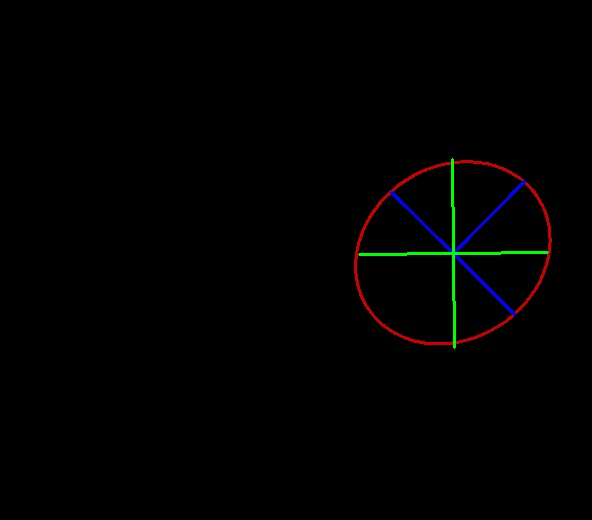
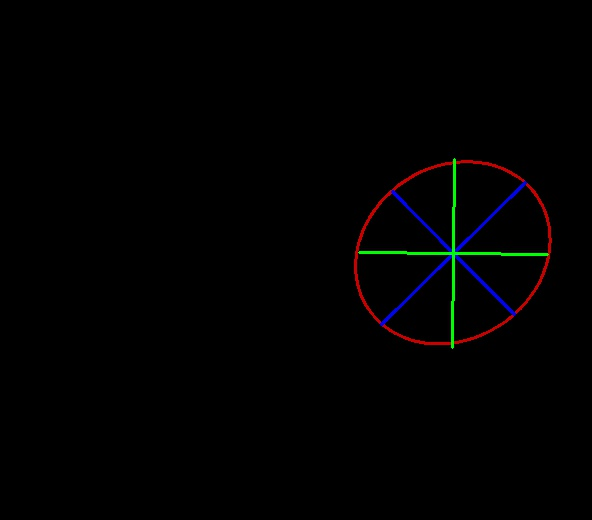
réglages bug ellipse #PourTom

diff --git a/python/ovale.py b/python/ovale.py
@@ -6,7 +6,7 @@ from math import sin
 from math import cos
 from math import pi
 from math import sqrt
-import database as db
+#import database as db
 
 class find_ovale:
     def __init__(self,orig,first_pic_or_second):
@@ -31,19 +31,21 @@ class find_ovale:
         
         box=self.draw_contours(cnt)
         cv2.ellipse(self.final,box,(0,0,200), 2)
-        cv2.line(self.final,(self.arrondi(box[0][0]),self.arrondi(box[0][1])),(self.arrondi(box[0][0]-sin(-pi+180*box[2]/pi)*box[1][1]/2),self.arrondi(box[0][1]-cos(-pi+180*box[2]/pi)*box[1][1]/2)),(255,0,0),2)
-        cv2.line(self.final,(self.arrondi(box[0][0]),self.arrondi(box[0][1])),(self.arrondi(box[0][0]-sin(180*box[2]/pi)*box[1][1]/2),self.arrondi(box[0][1]-cos(180*box[2]/pi)*box[1][1]/2)),(255,0,0),2)
-        cv2.line(self.final,(self.arrondi(box[0][0]),self.arrondi(box[0][1])),(self.arrondi(box[0][0]-sin(180*box[2]/pi-pi/2)*box[1][0]/2),self.arrondi(box[0][1]-cos(180*box[2]/pi-pi/2)*box[1][0]/2)),(255,0,0),2)
-        cv2.line(self.final,(self.arrondi(box[0][0]),self.arrondi(box[0][1])),(self.arrondi(box[0][0]-sin(180*box[2]/pi+pi/2)*box[1][0]/2),self.arrondi(box[0][1]-cos(180*box[2]/pi+pi/2)*box[1][0]/2)),(255,0,0),2)
+        cv2.line(self.final,(self.arrondi(box[0][0]),self.arrondi(box[0][1])),(self.arrondi(box[0][0]+sin(-pi+180*box[2]/pi)*box[1][0]/2),self.arrondi(box[0][1]-cos(-pi+180*box[2]/pi)*box[1][0]/2)),(255,0,0),2)
+        cv2.line(self.final,(self.arrondi(box[0][0]),self.arrondi(box[0][1])),(self.arrondi(box[0][0]+sin(180*box[2]/pi)*box[1][0]/2),self.arrondi(box[0][1]-cos(180*box[2]/pi)*box[1][0]/2)),(255,0,0),2)
+        cv2.line(self.final,(self.arrondi(box[0][0]),self.arrondi(box[0][1])),(self.arrondi(box[0][0]+sin(180*box[2]/pi-pi/2)*box[1][1]/2),self.arrondi(box[0][1]-cos(180*box[2]/pi-pi/2)*box[1][1]/2)),(255,0,0),2)
+        cv2.line(self.final,(self.arrondi(box[0][0]),self.arrondi(box[0][1])),(self.arrondi(box[0][0]+sin(180*box[2]/pi+pi/2)*box[1][1]/2),self.arrondi(box[0][1]-cos(180*box[2]/pi+pi/2)*box[1][1]/2)),(255,0,0),2)
         
         
-        cv2.line(self.final,(self.arrondi(box[0][0]),self.arrondi(box[0][1])),(self.arrondi(box[0][0]-sin(pi/4+180*box[2]/pi)*(box[1][1]/2+box[1][0]/2)/2),self.arrondi(box[0][1]-cos(pi/4+180*box[2]/pi)*(box[1][1]/2+box[1][0]/2)/2)),(0,255,0),2)
-        cv2.line(self.final,(self.arrondi(box[0][0]),self.arrondi(box[0][1])),(self.arrondi(box[0][0]-sin(3*pi/4+180*box[2]/pi)*(box[1][1]/2+box[1][0]/2)/2),self.arrondi(box[0][1]-cos(3*pi/4+180*box[2]/pi)*(box[1][1]/2+box[1][0]/2)/2)),(0,255,0),2)
-        cv2.line(self.final,(self.arrondi(box[0][0]),self.arrondi(box[0][1])),(self.arrondi(box[0][0]-sin(-pi/4+180*box[2]/pi)*(box[1][1]/2+box[1][0]/2)/2),self.arrondi(box[0][1]-cos(-pi/4+180*box[2]/pi)*(box[1][1]/2+box[1][0]/2)/2)),(0,255,0),2)
-        cv2.line(self.final,(self.arrondi(box[0][0]),self.arrondi(box[0][1])),(self.arrondi(box[0][0]-sin(-3*pi/4+180*box[2]/pi)*(box[1][1]/2+box[1][0]/2)/2),self.arrondi(box[0][1]-cos(-3*pi/4+180*box[2]/pi)*(box[1][1]/2+box[1][0]/2)/2)),(0,255,0),2)
+        cv2.line(self.final,(self.arrondi(box[0][0]),self.arrondi(box[0][1])),(self.arrondi(box[0][0]+sin(pi/4+180*box[2]/pi)*(box[1][1]/2+box[1][0]/2)/2),self.arrondi(box[0][1]-cos(pi/4+180*box[2]/pi)*(box[1][1]/2+box[1][0]/2)/2)),(0,255,0),2)
+        cv2.line(self.final,(self.arrondi(box[0][0]),self.arrondi(box[0][1])),(self.arrondi(box[0][0]+sin(3*pi/4+180*box[2]/pi)*(box[1][1]/2+box[1][0]/2)/2),self.arrondi(box[0][1]-cos(3*pi/4+180*box[2]/pi)*(box[1][1]/2+box[1][0]/2)/2)),(0,255,0),2)
+        cv2.line(self.final,(self.arrondi(box[0][0]),self.arrondi(box[0][1])),(self.arrondi(box[0][0]+sin(-pi/4+180*box[2]/pi)*(box[1][1]/2+box[1][0]/2)/2),self.arrondi(box[0][1]-cos(-pi/4+180*box[2]/pi)*(box[1][1]/2+box[1][0]/2)/2)),(0,255,0),2)
+        cv2.line(self.final,(self.arrondi(box[0][0]),self.arrondi(box[0][1])),(self.arrondi(box[0][0]+sin(-3*pi/4+180*box[2]/pi)*(box[1][1]/2+box[1][0]/2)/2),self.arrondi(box[0][1]-cos(-3*pi/4+180*box[2]/pi)*(box[1][1]/2+box[1][0]/2)/2)),(0,255,0),2)
         
         print('*******OVALE...OK')
-        print("*******ANGLE: "+str(int(box[2])+90))
+        
+        angle=(self.arrondi(box[2])+90)%180
+        print("*******ANGLE: "+str(int(angle)+90))
 
         #Calcul des diagonales ODR ODL
         print(int(box[0][0]-sin(pi/4+180*box[2]/pi)*(box[1][1]/2+box[1][0]/2)/2),int(box[0][1]-cos(pi/4+180*box[2]/pi)*(box[1][1]/2+box[1][0]/2)/2),int(box[0][0]-sin(-3*pi/4+180*box[2]/pi)*(box[1][1]/2+box[1][0]/2)/2),int(box[0][1]-cos(-3*pi/4+180*box[2]/pi)*(box[1][1]/2+box[1][0]/2)/2))
@@ -51,8 +53,8 @@ class find_ovale:
         ODR = self.Norme(int(box[0][0]-sin(3*pi/4+180*box[2]/pi)*(box[1][1]/2+box[1][0]/2)/2),int(box[0][1]-cos(3*pi/4+180*box[2]/pi)*(box[1][1]/2+box[1][0]/2)/2),int(box[0][0]-sin(-pi/4+180*box[2]/pi)*(box[1][1]/2+box[1][0]/2)/2),int(box[0][1]-cos(-pi/4+180*box[2]/pi)*(box[1][1]/2+box[1][0]/2)/2))
         print('*******DIAGONAL_FRONTO_OCCIPITAL...OK')
         #on envoie le résultat à la base de données
-        angle=box[2]+90
-        db.database(angle,box[1],ODL,ODR,first_pic_or_second)
+
+        #db.database(angle,box[1],ODL,ODR,first_pic_or_second)
 
 
         # show images
@@ -101,4 +103,4 @@ class find_ovale:
             return int(nb[0])
 
 
-#find_ovale(cv2.imread("image/fig2.jpg"),1)
+find_ovale(cv2.imread("image/fig2.jpg"),1)
